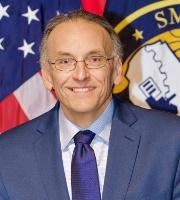
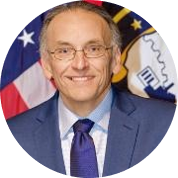
Updated photos treasury SBA ITA

diff --git a/commerce/APG_commerce_4.html b/commerce/APG_commerce_4.html
@@ -48,17 +48,17 @@ description: Facilitate international trade for U.S. firms and workers by reduci
 <table style="width:100%">
 <tr>
 
-<td width="17%" align="center"><img src="../img/agr/Circle-icons-profle.svg.png" alt="no photo"  width="100px" ></td>
+<td width="17%" align="center"><img src="doc_kessler_jeffrey.png" alt="Photo of Jeffrey Kessler"  width="100px" ></td>
 <td width="83%" align="left"> Jeffrey Kessler, Assistant Secretary for Enforcement & Compliance, Office of the Under Secretary for International Trade
 </td>
 </tr>
 <tr>
-<td width="17%" align="center"><img src="../img/agr/Circle-icons-profle.svg.png" alt="no photo"  width="100px" ></td>
+<td width="17%" align="center"><img src="doc_steff_ian.png" alt="Photo of Ian Steff"  width="100px" ></td>
 <td width="83%" align="left">Ian Steff, Assistant Secretary for Global Markets and Director General of the U.S. Foreign &
 Commercial Service, Office of the Under Secretary for International Trade</td>
 </tr>
 <tr>
-<td width="17%" align="center"><img src="../img/agr/Circle-icons-profle.svg.png" alt="no photo"  width="100px" ><br></td>
+<td width="17%" align="center"><img src="doc_sullivan_jim.png" alt="Photo of Jim Sullivan"  width="100px" ><br></td>
 <td width="83%" align="left">James Sullivan, Assistant Secretary for Industry & Analysis, Office of the Under Secretary for International Trade</td>
 </tr>
 </table>

diff --git a/commerce/APG_commerce_2.html b/commerce/APG_commerce_2.html
@@ -42,6 +42,7 @@ description: Improve NOAA decision support services by demonstrating a new flood
      <div class="usa-width-three-fourths usa-layout-docs-main_content">
       <h1>Department of Commerce &nbsp;<a href="https://www.commerce.gov/" target="_blank"><img src="../img/agency/Commerce_Department_Seal.png" alt="Commerce logo" align="center" width="87"> </a></h1>
        <h2 id="section-heading-h2">Mitigate Flood Impacts by Demonstrating Improved Decision Support Services to Emergency Managers </h2>
+       <p> <img src="doc_jacobs_neil_Dr.png" alt="Photo of Dr. Neil Jacobs" style="float:left;width:130px;height:130px;padding:15px;align:top;">
      <div class="usa-width-one-whole"> <!--<p><b>Goal Leader:</b> Rear Admiral Tim Gallaudet, Acting Undersecretary of Commerce for Oceans and Atmosphere </p>-->
        <p><b>Goal Leader:</b> </p>
        <table style="width:100%">

diff --git a/treasury/APG_treasury_2.html b/treasury/APG_treasury_2.html
@@ -44,7 +44,7 @@ description: Reduce average approval times for alcohol and tobacco business perm
 
        <table style="width:100%">
          <tr>
-           <td width="17%" align="left"><img src="treasury_ryan_mary.jpg" alt="Goal Leader Photo of Mary Ryan"  width="100px" ></td>
+           <td width="17%" align="left"><img src="treasury_ryan_mary.png" alt="Goal Leader Photo of Mary Ryan"  width="100px" ></td>
            <td width="83%" align="left"><b>Goal Leader</b>: Mary Ryan, Acting Administrator, Alcohol and Tobacco Tax and Trade Bureau, Department of the Treasury</td>
          </tr>
        </table>
